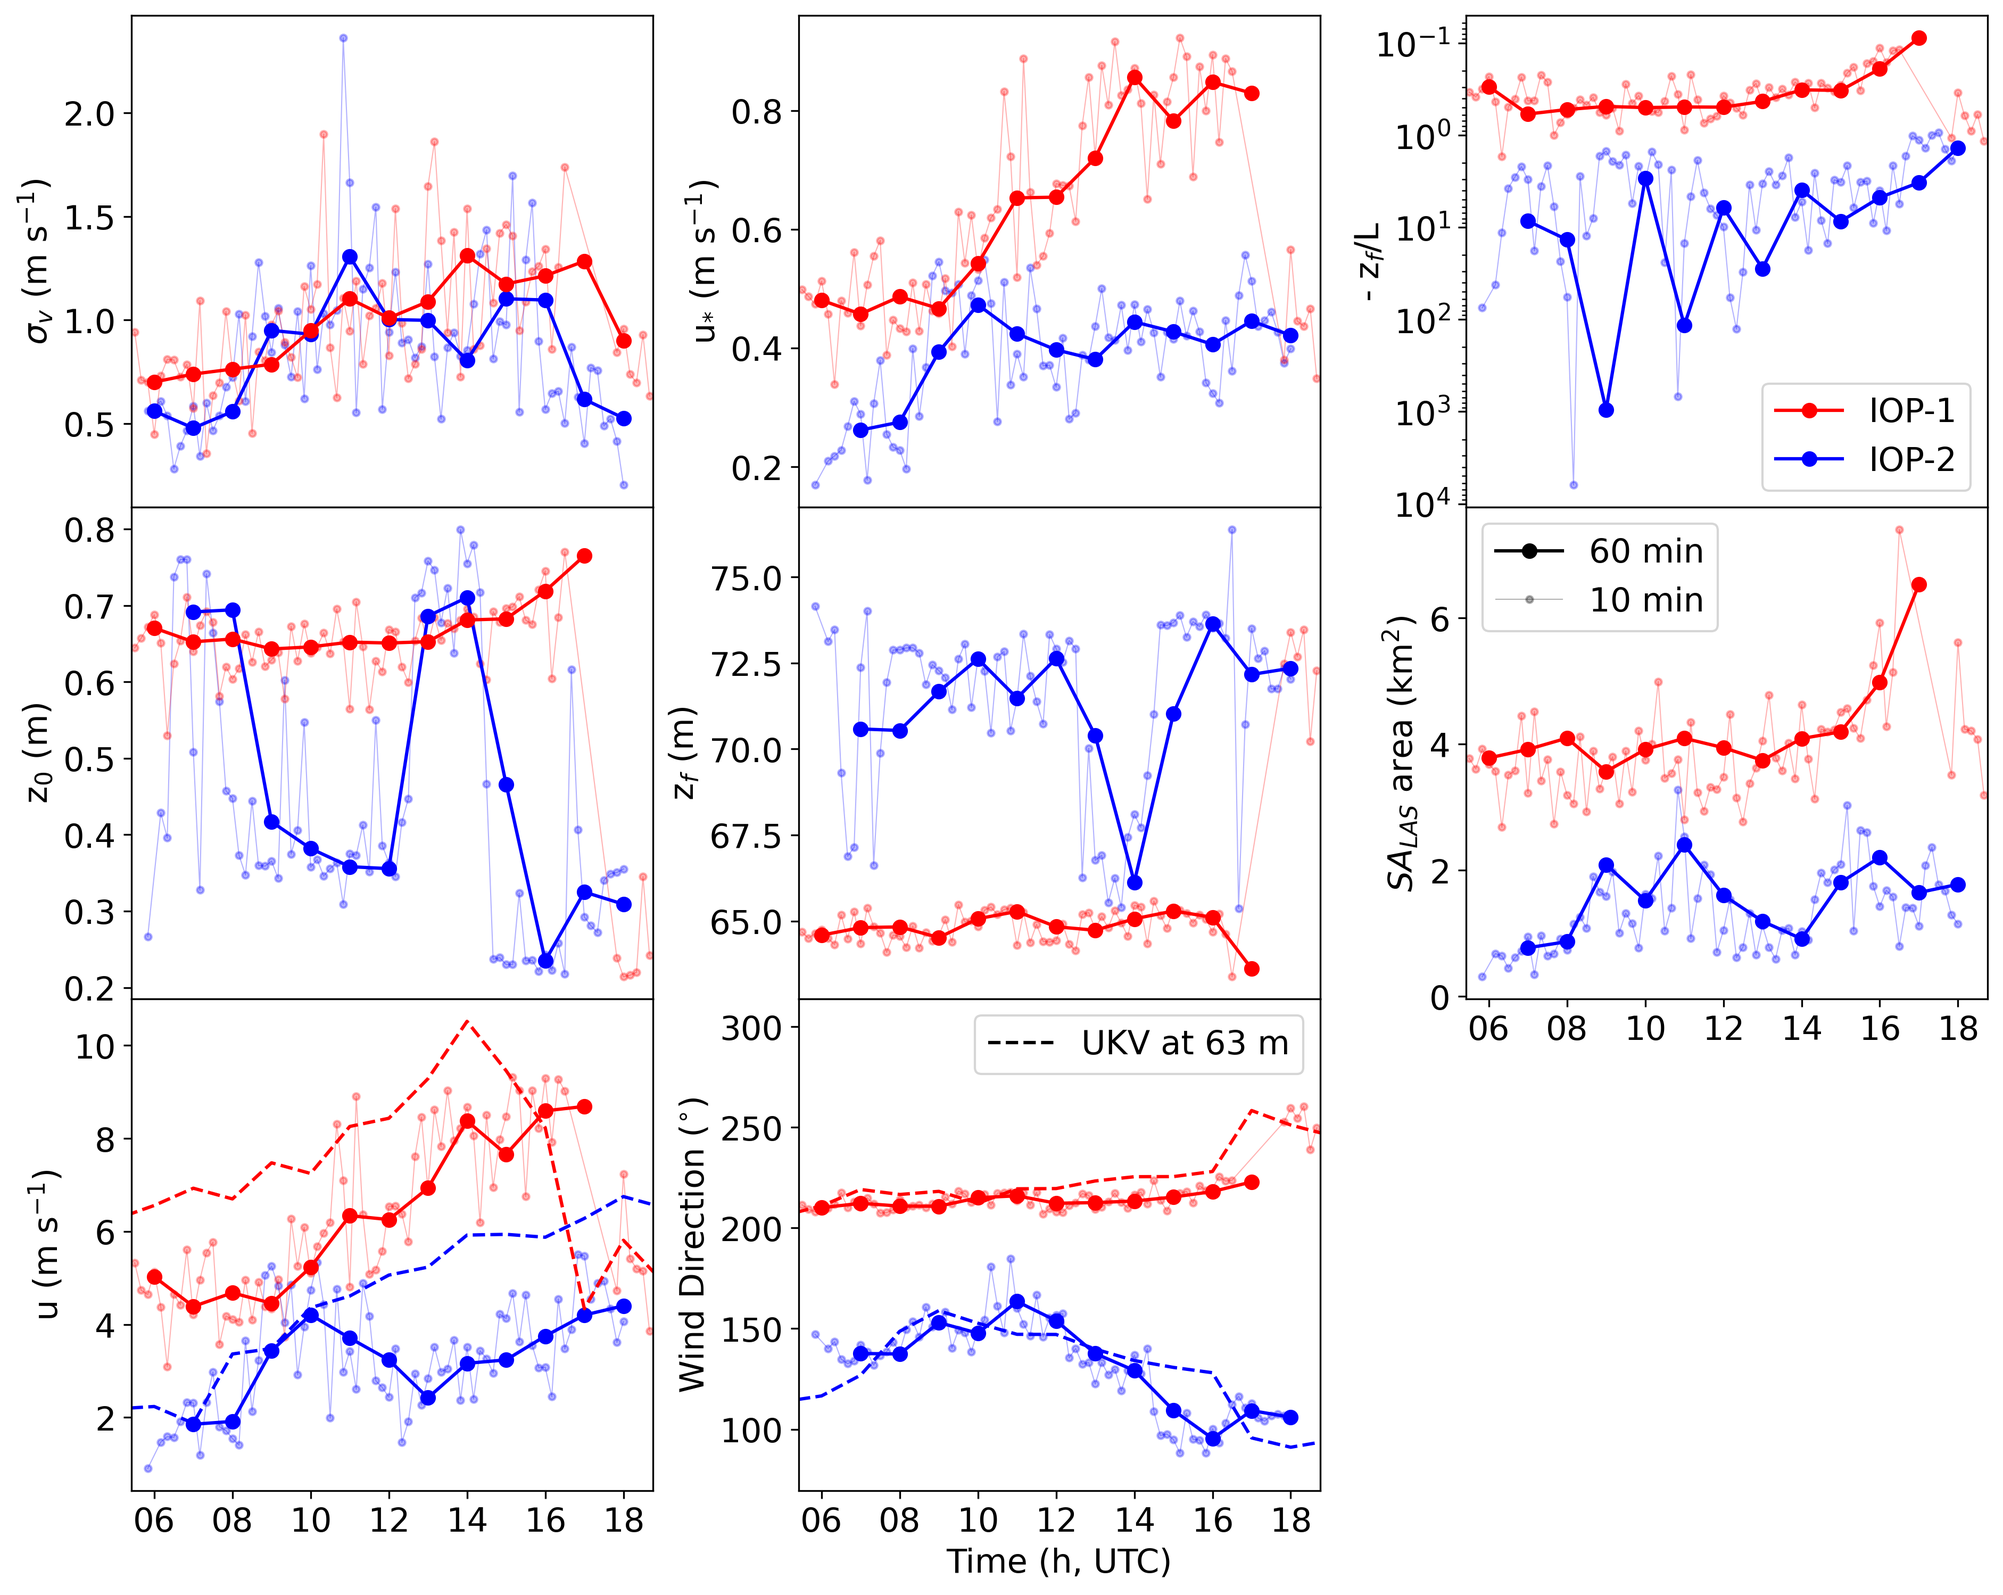
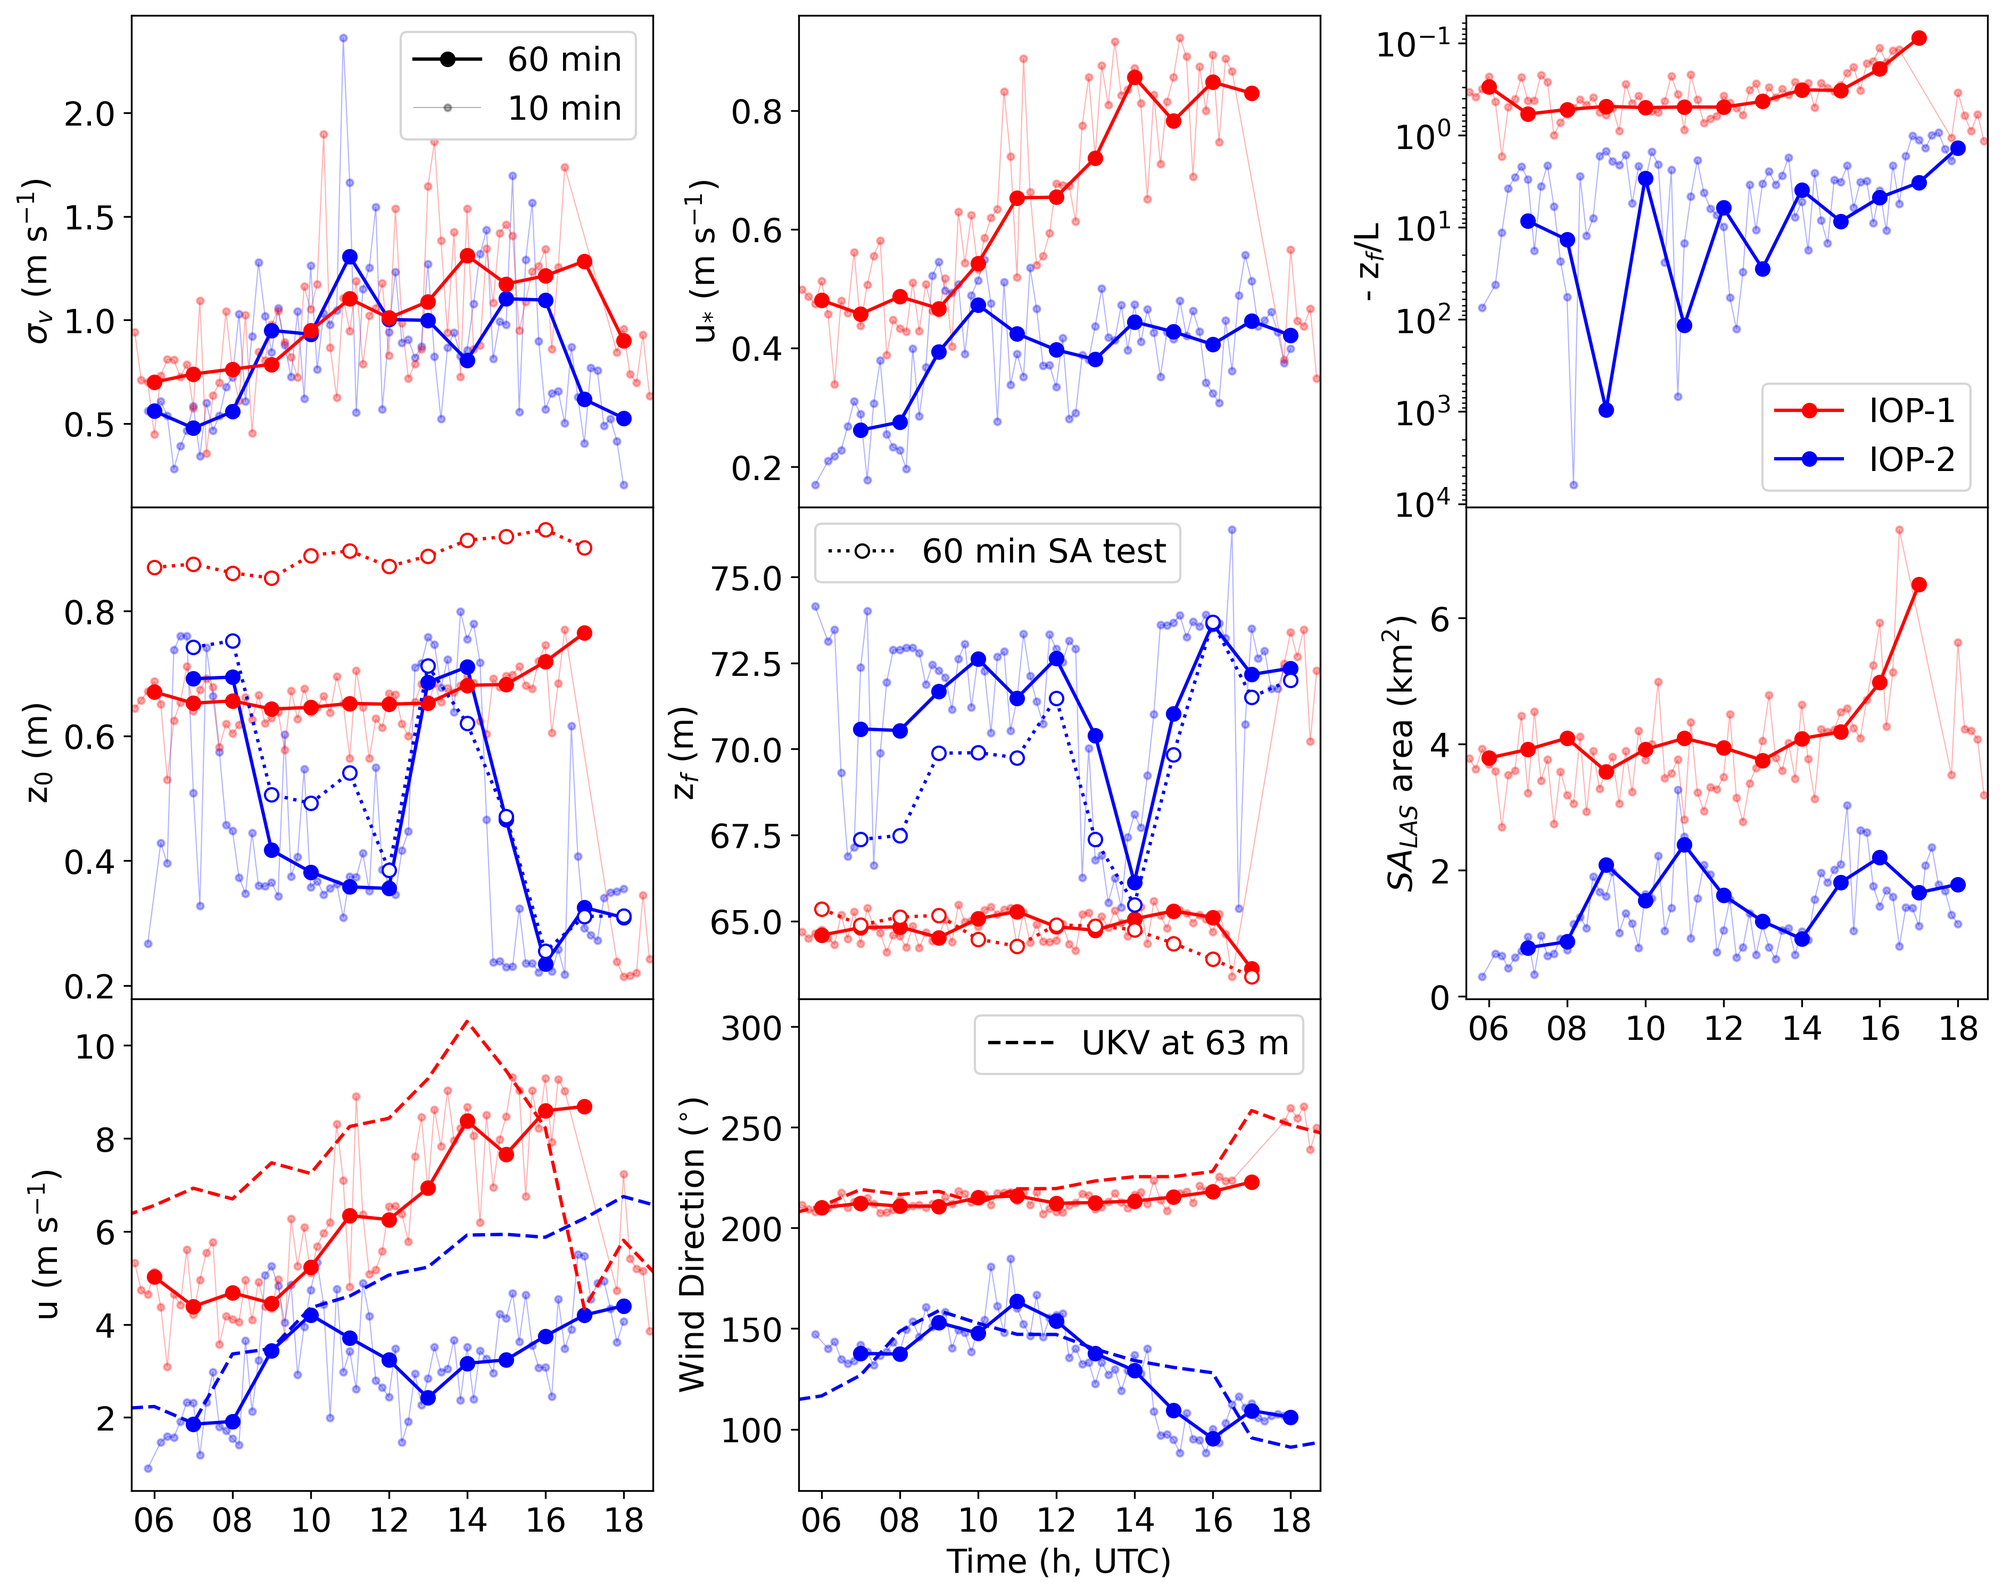
Add the SA tests to sa figure

diff --git a/scint_plots/stability_and_SA/stability_and_SA_funs.py b/scint_plots/stability_and_SA/stability_and_SA_funs.py
@@ -6,11 +6,29 @@ from matplotlib.dates import DateFormatter
 import matplotlib as mpl
 
 from scint_fp.create_input_csvs import wx_u_v_components
+from scint_flux import run_function
 
 mpl.rcParams.update({'font.size': 15})
 
 
-def stability_and_sa(df_dict):
+def retrieve_z_fb(path='BCT_IMU'):
+    """
+
+    :return:
+    """
+
+    bdsm_path = 'D:/Documents/scintools/example_inputs/rasters/height_surface_4m.tif'
+    cdsm_path = 'D:/Documents/scintools/example_inputs/rasters/height_veg_4m.tif'
+    dem_path = 'D:/Documents/scintools/example_inputs/rasters/height_terrain_4m.tif'
+
+    scint_path_dict = run_function.construct_path(path, bdsm_path, cdsm_path, dem_path)
+
+    z_fb = scint_path_dict['z_fb']
+
+    return z_fb
+
+
+def stability_and_sa(df_dict, df_sa_constant):
     """
 
     Returns
@@ -93,9 +111,9 @@ def stability_and_sa(df_dict):
         csv_df_126['Unnamed: 0'] = pd.to_datetime(csv_df_126['Unnamed: 0'], format='%d/%m/%Y %H:%M')
 
     csv_df_123.index = csv_df_123['Unnamed: 0']
-    csv_df_123 = csv_df_123.drop('Unnamed: 0', 1)
+    csv_df_123 = csv_df_123.drop(columns=['Unnamed: 0'])
     csv_df_126.index = csv_df_126['Unnamed: 0']
-    csv_df_126 = csv_df_126.drop('Unnamed: 0', 1)
+    csv_df_126 = csv_df_126.drop(columns=['Unnamed: 0'])
 
     csv_df_123 = csv_df_123[['sig_v']]
     csv_df_126 = csv_df_126[['sig_v']]
@@ -159,6 +177,15 @@ def stability_and_sa(df_dict):
     min_time = min(df_123_10.index.min(), df_126_10.index.min(), df_126_60.index.min(), df_123_60.index.min())
     max_time = max(df_123_10.index.max(), df_126_10.index.max(), df_126_60.index.max(), df_123_60.index.max())
 
+    # get effective beam height
+    z_fb = retrieve_z_fb()
+    # adding these to the sa method test df
+    df_sa_constant['z_f_123_constant'] = z_fb - df_sa_constant.z_d_123_constant
+    df_sa_constant['z_f_126_constant'] = z_fb - df_sa_constant.z_d_126_constant
+
+    dt_list = [dt.datetime.combine(df_123_10.index[0].date(), dt.time(i, 00)) for i in df_sa_constant.index]
+    df_sa_constant.index = dt_list
+
     # plotting
     fig = plt.figure(figsize=(15, 12))
     spec = gridspec.GridSpec(ncols=3, nrows=3)
@@ -175,32 +202,38 @@ def stability_and_sa(df_dict):
     ax9 = plt.subplot(spec[8])
 
     # sigv
-    ax1.plot(df_126_10.index, df_126_10.sig_v_126, marker='.', linewidth=0.5, color='blue', alpha=0.3)
-    ax1.plot(df_123_10.index, df_123_10.sig_v_123, marker='.', linewidth=0.5, color='red', alpha=0.3)
+    ax1.plot(df_126_10.index.values, df_126_10.sig_v_126.values, marker='.', linewidth=0.5, color='blue', alpha=0.3)
+    ax1.plot(df_123_10.index.values, df_123_10.sig_v_123.values, marker='.', linewidth=0.5, color='red', alpha=0.3)
 
-    ax1.plot(sig_v_126_60.index, sig_v_126_60, marker='o', color='blue')
-    ax1.plot(sig_v_123_60.index[:-1], sig_v_123_60[:-1], marker='o', color='red')
+    ax1.plot(sig_v_126_60.index.values, sig_v_126_60.values, marker='o', color='blue')
+    ax1.plot(sig_v_123_60.index[:-1].values, sig_v_123_60[:-1].values, marker='o', color='red')
+
+    ax1.plot([], [], color='black', marker='o', label='60 min')
+    ax1.plot([], [], color='black', alpha=0.3, linewidth=0.5, marker='.', label='10 min')
+
+    ax1.legend()
 
     ax1.set_ylabel('$\sigma_{v}$ (m s$^{-1}$)')
 
     # ustar
     # 10min
-    ax2.plot(df_126_10.index, df_126_10.ustar, color='blue', alpha=0.3, linewidth=0.5, marker='.')
-    ax2.plot(df_123_10.index, df_123_10.ustar, color='red', alpha=0.3, linewidth=0.5, marker='.')
+    ax2.plot(df_126_10.index.values, df_126_10.ustar.values, color='blue', alpha=0.3, linewidth=0.5, marker='.')
+    ax2.plot(df_123_10.index.values, df_123_10.ustar.values, color='red', alpha=0.3, linewidth=0.5, marker='.')
     # hour
-    ax2.plot(df_126_60.index, df_126_60.ustar, color='blue', marker='o')
-    ax2.plot(df_123_60.index, df_123_60.ustar, color='red', marker='o')
+    ax2.plot(df_126_60.index.values, df_126_60.ustar.values, color='blue', marker='o')
+    ax2.plot(df_123_60.index.values, df_123_60.ustar.values, color='red', marker='o')
 
     ax2.set_ylabel('u$_{*}$ (m s$^{-1}$)')
 
     # stab param
     # 10min
-    ax3.plot(df_126_10.index, df_126_10.stab_param * -1, color='blue', alpha=0.3, linewidth=0.5, marker='.')
-    ax3.plot(df_123_10.index, df_123_10.stab_param * -1, color='red', alpha=0.3, linewidth=0.5, marker='.')
+    ax3.plot(df_126_10.index.values, df_126_10.stab_param.values * -1, color='blue', alpha=0.3, linewidth=0.5,
+             marker='.')
+    ax3.plot(df_123_10.index.values, df_123_10.stab_param.values * -1, color='red', alpha=0.3, linewidth=0.5,
+             marker='.')
     # hour
-    ax3.plot(df_123_60.index, df_123_60.stab_param * -1, color='red', marker='o', label='IOP-1')
-    ax3.plot(df_126_60.index, df_126_60.stab_param * -1, color='blue', marker='o', label='IOP-2')
-
+    ax3.plot(df_123_60.index.values, df_123_60.stab_param.values * -1, color='red', marker='o', label='IOP-1')
+    ax3.plot(df_126_60.index.values, df_126_60.stab_param.values * -1, color='blue', marker='o', label='IOP-2')
 
     ax3.set_ylabel('- z$_{f}$/L', labelpad=-5)
     ax3.set_yscale('log')
@@ -209,50 +242,62 @@ def stability_and_sa(df_dict):
 
     # z0
     # 10min
-    ax4.plot(df_126_10.index, df_126_10.z_0, color='blue', alpha=0.3, linewidth=0.5, marker='.')
-    ax4.plot(df_123_10.index, df_123_10.z_0, color='red', alpha=0.3, linewidth=0.5, marker='.')
+    ax4.plot(df_126_10.index.values, df_126_10.z_0.values, color='blue', alpha=0.3, linewidth=0.5, marker='.')
+    ax4.plot(df_123_10.index.values, df_123_10.z_0.values, color='red', alpha=0.3, linewidth=0.5, marker='.')
     # hour
-    ax4.plot(df_126_60.index, df_126_60.z_0, color='blue', marker='o')
-    ax4.plot(df_123_60.index, df_123_60.z_0, color='red', marker='o')
+    ax4.plot(df_126_60.index.values, df_126_60.z_0.values, color='blue', marker='o')
+    ax4.plot(df_123_60.index.values, df_123_60.z_0.values, color='red', marker='o')
+
+    # plot the sa methods
+    ax4.plot(df_sa_constant.index.values, df_sa_constant.z_0_126_constant.values, color='blue', marker='o',
+             markerfacecolor='white', linestyle=':')
+    ax4.plot(df_sa_constant.index.values, df_sa_constant.z_0_123_constant.values, color='red', marker='o',
+             markerfacecolor='white', linestyle=':')
 
     ax4.set_ylabel('z$_{0}$ (m)')
 
     # zf
     # 10 min
-    ax5.plot(df_126_10.index, df_126_10.z_f, color='blue', alpha=0.3, linewidth=0.5, marker='.')
-    ax5.plot(df_123_10.index, df_123_10.z_f, color='red', alpha=0.3, linewidth=0.5, marker='.')
+    ax5.plot(df_126_10.index.values, df_126_10.z_f.values, color='blue', alpha=0.3, linewidth=0.5, marker='.')
+    ax5.plot(df_123_10.index.values, df_123_10.z_f.values, color='red', alpha=0.3, linewidth=0.5, marker='.')
     # hour
-    ax5.plot(df_126_60.index, df_126_60.z_f, color='blue', marker='o')
-    ax5.plot(df_123_60.index, df_123_60.z_f, color='red', marker='o')
+    ax5.plot(df_126_60.index.values, df_126_60.z_f.values, color='blue', marker='o')
+    ax5.plot(df_123_60.index.values, df_123_60.z_f.values, color='red', marker='o')
+
+    # plot the sa methods
+    ax5.plot(df_sa_constant.index.values, df_sa_constant.z_f_126_constant.values, color='blue', marker='o',
+             markerfacecolor='white', linestyle=':')
+    ax5.plot(df_sa_constant.index.values, df_sa_constant.z_f_123_constant.values, color='red', marker='o',
+             markerfacecolor='white', linestyle=':')
+
+    ax5.plot([], [], color='black', marker='o', markerfacecolor='white', linestyle=':', label='60 min SA test')
+    ax5.legend()
 
     ax5.set_ylabel('z$_{f}$ (m)')
 
     # sa area
     # 10 min
-    ax6.plot(df_126_10.index, df_126_10.sa_area_km2, color='blue', alpha=0.3, linewidth=0.5, marker='.')
-    ax6.plot(df_123_10.index, df_123_10.sa_area_km2, color='red', alpha=0.3, linewidth=0.5, marker='.')
+    ax6.plot(df_126_10.index.values, df_126_10.sa_area_km2.values, color='blue', alpha=0.3, linewidth=0.5, marker='.')
+    ax6.plot(df_123_10.index.values, df_123_10.sa_area_km2.values, color='red', alpha=0.3, linewidth=0.5, marker='.')
     # hour
-    ax6.plot(df_126_60.index, df_126_60.sa_area_km2, color='blue', marker='o')
-    ax6.plot(df_123_60.index, df_123_60.sa_area_km2, color='red', marker='o')
-
-    ax6.plot([], [], color='black', marker='o', label='60 min')
-    ax6.plot([], [], color='black', alpha=0.3, linewidth=0.5, marker='.', label='10 min')
-
-    ax6.legend()
+    ax6.plot(df_126_60.index.values, df_126_60.sa_area_km2.values, color='blue', marker='o')
+    ax6.plot(df_123_60.index.values, df_123_60.sa_area_km2.values, color='red', marker='o')
 
     ax6.set_ylabel('$SA_{LAS}$ area (km$^{2}$)')
 
     # wind speed
     # 10 min
-    ax7.plot(df_126_10.index, df_126_10.wind_speed_convert, color='blue', alpha=0.3, linewidth=0.5, marker='.')
-    ax7.plot(df_123_10.index, df_123_10.wind_speed_convert, color='red', alpha=0.3, linewidth=0.5, marker='.')
+    ax7.plot(df_126_10.index.values, df_126_10.wind_speed_convert.values, color='blue', alpha=0.3, linewidth=0.5,
+             marker='.')
+    ax7.plot(df_123_10.index.values, df_123_10.wind_speed_convert.values, color='red', alpha=0.3, linewidth=0.5,
+             marker='.')
     # hour
-    ax7.plot(df_126_60.index, df_126_60.wind_speed_convert, color='blue', marker='o')
-    ax7.plot(df_123_60.index, df_123_60.wind_speed_convert, color='red', marker='o')
+    ax7.plot(df_126_60.index.values, df_126_60.wind_speed_convert.values, color='blue', marker='o')
+    ax7.plot(df_123_60.index.values, df_123_60.wind_speed_convert.values, color='red', marker='o')
 
     # UKV
-    ax7.plot(df_126_ukv.index, df_126_ukv.wind_speed, color='blue', linestyle='--')
-    ax7.plot(df_123_ukv.index, df_123_ukv.wind_speed, color='red', linestyle='--')
+    ax7.plot(df_126_ukv.index.values, df_126_ukv.wind_speed.values, color='blue', linestyle='--')
+    ax7.plot(df_123_ukv.index.values, df_123_ukv.wind_speed.values, color='red', linestyle='--')
 
     ax7.set_ylabel('u (m s$^{-1}$)')
 
@@ -260,14 +305,16 @@ def stability_and_sa(df_dict):
 
     # wind direction
     # 10 min
-    ax8.plot(df_126_10.index, df_126_10.wind_direction_convert, color='blue', alpha=0.3, linewidth=0.5, marker='.')
-    ax8.plot(df_123_10.index, df_123_10.wind_direction_convert, color='red', alpha=0.3, linewidth=0.5, marker='.')
+    ax8.plot(df_126_10.index.values, df_126_10.wind_direction_convert.values, color='blue', alpha=0.3, linewidth=0.5,
+             marker='.')
+    ax8.plot(df_123_10.index.values, df_123_10.wind_direction_convert.values, color='red', alpha=0.3, linewidth=0.5,
+             marker='.')
     # hour
-    ax8.plot(df_126_60.index, df_126_60.wind_direction_convert, color='blue', marker='o')
-    ax8.plot(df_123_60.index, df_123_60.wind_direction_convert, color='red', marker='o')
+    ax8.plot(df_126_60.index.values, df_126_60.wind_direction_convert.values, color='blue', marker='o')
+    ax8.plot(df_123_60.index.values, df_123_60.wind_direction_convert.values, color='red', marker='o')
     # UKV
-    ax8.plot(df_126_ukv.index, df_126_ukv.wind_direction, color='blue', linestyle='--')
-    ax8.plot(df_123_ukv.index, df_123_ukv.wind_direction, color='red', linestyle='--')
+    ax8.plot(df_126_ukv.index.values, df_126_ukv.wind_direction.values, color='blue', linestyle='--')
+    ax8.plot(df_123_ukv.index.values, df_123_ukv.wind_direction.values, color='red', linestyle='--')
 
     ax8.plot([], [], color='black', linestyle='--', label='UKV at ' + '{0:.0f}'.format(UKV_123_z) + ' m')
     ax8.legend()

diff --git a/scint_plots/sa_method_tests/sa_method_tests.py b/scint_plots/sa_method_tests/sa_method_tests.py
@@ -172,26 +172,28 @@ def plot_method_tests(df):
     print('end')
 
 
-current_dir = os.getcwd().replace('\\', '/') + '/'
-sa_test_dir = current_dir + 'SA_constant/'
+if __name__ == '__main__':
 
-file_list_test_123 = find_sas(sa_test_dir, 123)
-df_test_123 = read_roughness(sa_test_dir, file_list_test_123, 123, test=True)
+    current_dir = os.getcwd().replace('\\', '/') + '/'
+    sa_test_dir = current_dir + 'SA_constant/'
 
-file_list_test_126 = find_sas(sa_test_dir, 126)
-df_test_126 = read_roughness(sa_test_dir, file_list_test_126, 126, test=True)
+    file_list_test_123 = find_sas(sa_test_dir, 123)
+    df_test_123 = read_roughness(sa_test_dir, file_list_test_123, 123, test=True)
 
-sa_used_dir_123 = 'C:/Users/beths/OneDrive - University of Reading/local_runs_data/fp_output/hourly/2016' + '123' + '/'
-sa_used_dir_126 = 'C:/Users/beths/OneDrive - University of Reading/local_runs_data/fp_output/hourly/2016' + '126' + '/'
+    file_list_test_126 = find_sas(sa_test_dir, 126)
+    df_test_126 = read_roughness(sa_test_dir, file_list_test_126, 126, test=True)
 
-file_list_real_123 = find_sas(sa_used_dir_123, 123)
-file_list_real_126 = find_sas(sa_used_dir_126, 126)
+    sa_used_dir_123 = 'C:/Users/beths/OneDrive - University of Reading/local_runs_data/fp_output/hourly/2016' + '123' + '/'
+    sa_used_dir_126 = 'C:/Users/beths/OneDrive - University of Reading/local_runs_data/fp_output/hourly/2016' + '126' + '/'
 
-df_real_123 = read_roughness(sa_used_dir_123, file_list_real_123, 123, test=False)
-df_real_126 = read_roughness(sa_used_dir_126, file_list_real_126, 126, test=False)
+    file_list_real_123 = find_sas(sa_used_dir_123, 123)
+    file_list_real_126 = find_sas(sa_used_dir_126, 126)
 
-df = pd.concat([df_test_123, df_test_126, df_real_123, df_real_126], axis=1)
+    df_real_123 = read_roughness(sa_used_dir_123, file_list_real_123, 123, test=False)
+    df_real_126 = read_roughness(sa_used_dir_126, file_list_real_126, 126, test=False)
 
-plot_method_tests(df)
+    df = pd.concat([df_test_123, df_test_126, df_real_123, df_real_126], axis=1)
 
-print('end')
+    plot_method_tests(df)
+
+    print('end')

diff --git a/scint_plots/stability_and_SA/main_stability_and_SA.py b/scint_plots/stability_and_SA/main_stability_and_SA.py
@@ -1,7 +1,10 @@
 import numpy as np
+import os
+import pandas as pd
 
 from scint_flux.functions import read_calculated_fluxes
 from scint_flux import look_up
+from scint_plots.sa_method_tests import sa_method_tests
 
 from scint_plots.stability_and_SA import stability_and_SA_funs
 from scint_plots.tools.preprocessed_UKV_csvs import UKV_lookup
@@ -16,6 +19,20 @@ time_res = '1min_sa10min'
 pair_id = look_up.scint_path_numbers[scint_path]
 
 DOY_dict = {}
+
+
+# the constant SA tests
+# read
+current_dir = os.getcwd().replace('\\', '/') + '/'
+sa_test_dir = current_dir + '../sa_method_tests/' + 'SA_constant/'
+
+file_list_test_123 = sa_method_tests.find_sas(sa_test_dir, 123)
+df_test_123 = sa_method_tests.read_roughness(sa_test_dir, file_list_test_123, 123, test=True)
+
+file_list_test_126 = sa_method_tests.find_sas(sa_test_dir, 126)
+df_test_126 = sa_method_tests.read_roughness(sa_test_dir, file_list_test_126, 126, test=True)
+
+df_sa_constant = pd.concat([df_test_123, df_test_126], axis=1)
 
 # read the 60-min SA vars
 for DOY in DOY_list:
@@ -52,5 +69,5 @@ for DOY in DOY_list:
     DOY_dict[DOY][time_res] = df
 
 # plot
-stability_and_SA_funs.stability_and_sa(DOY_dict)
+stability_and_SA_funs.stability_and_sa(DOY_dict, df_sa_constant)
 print('end')
